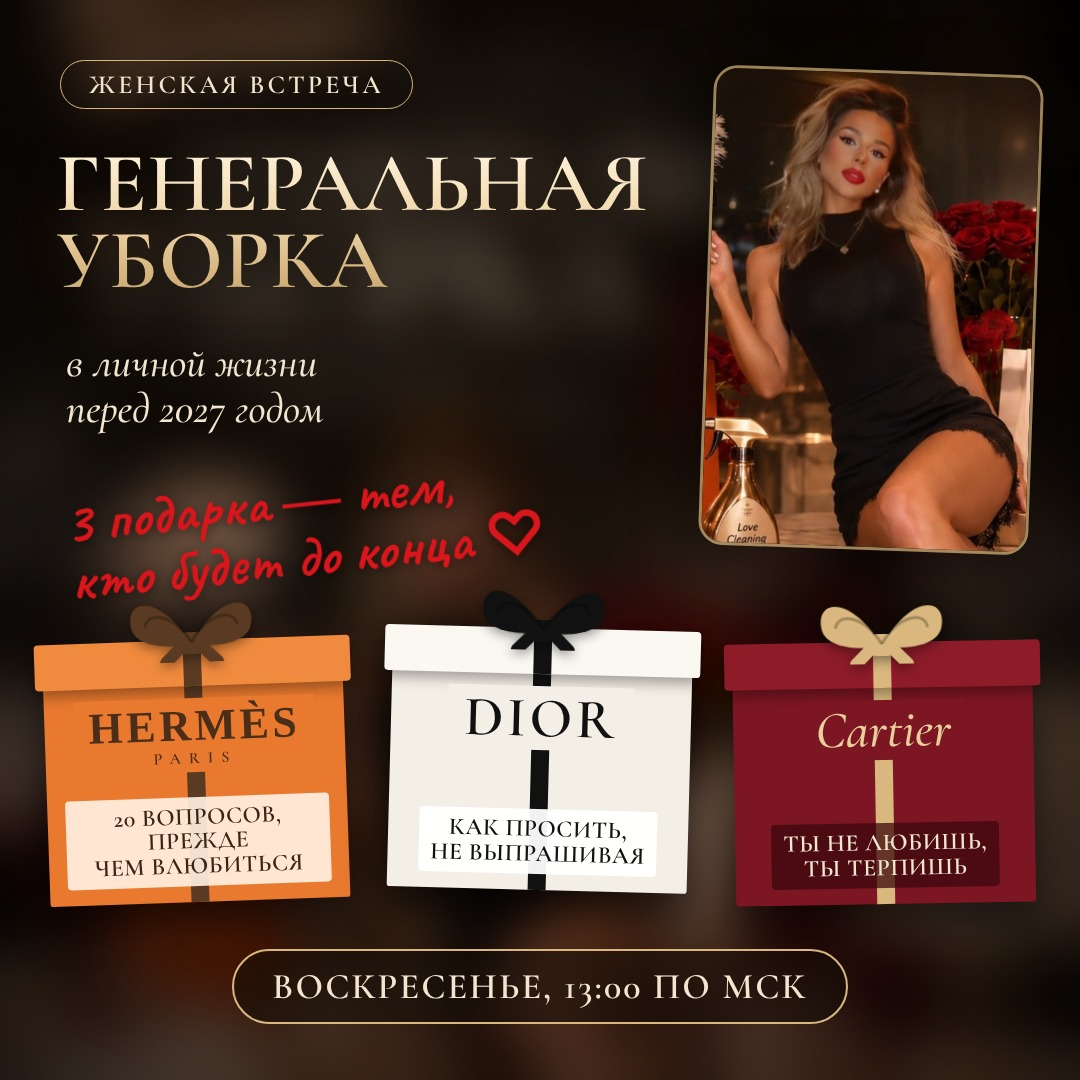
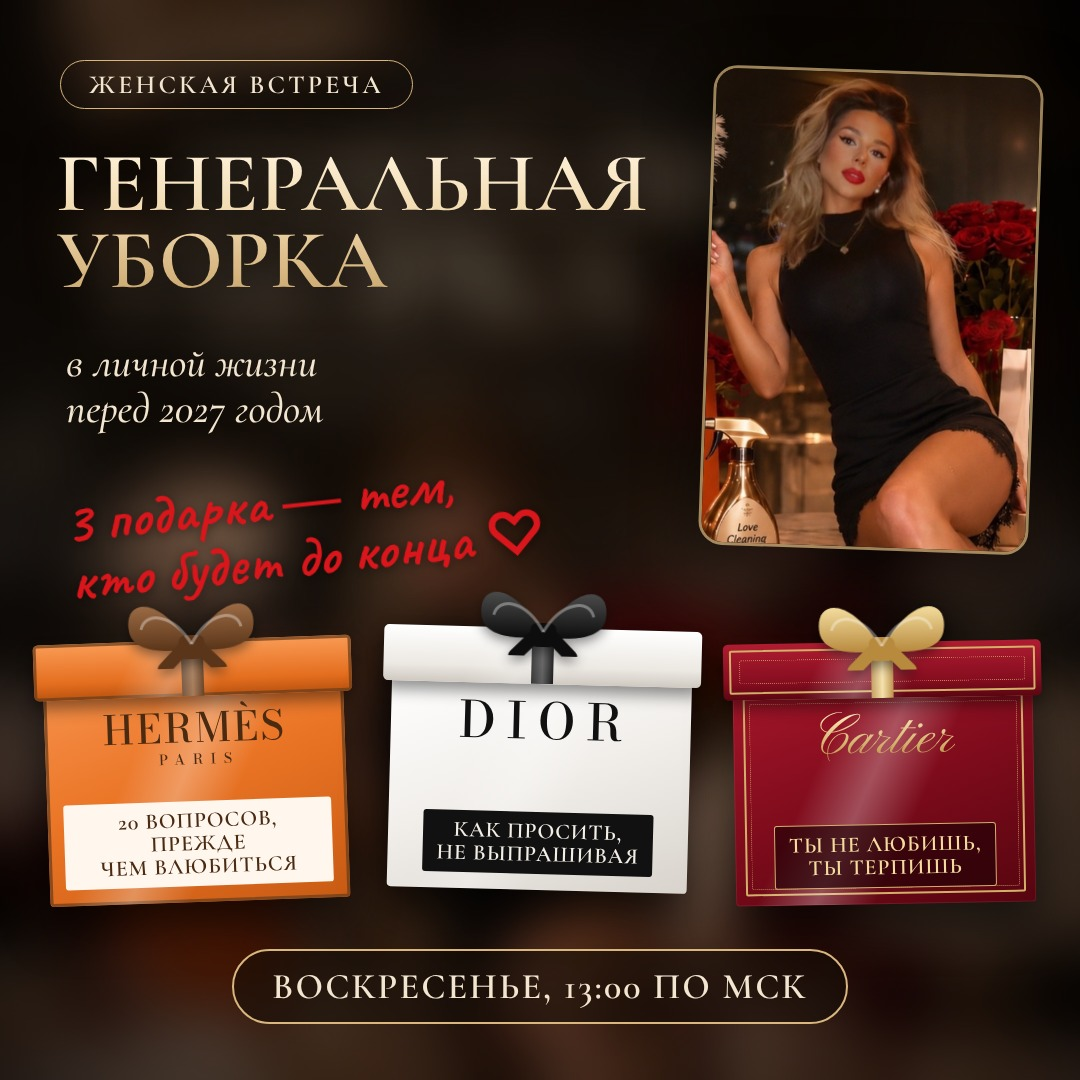
Обложка-приглашение: глянцевые коробки с логотипами
Claude-Session: https://claude.ai/code/session_01QvxPhZFmoV4wpS6odsdhe8

Changed region(s): [[0.0306, 0.55, 0.9778, 0.8556], [0.9167, 0.6417, 0.9472, 0.6722]]

diff --git a/guides/src/bot_covers_2.js b/guides/src/bot_covers_2.js
@@ -10,6 +10,9 @@ const css = `
 @font-face{font-family:Cav;font-weight:700;src:url(file://${F}/caveat/files/caveat-latin-700-normal.woff2);unicode-range:U+0000-00FF}
 @font-face{font-family:Mont;font-weight:500;src:url(file://${F}/montserrat/files/montserrat-cyrillic-500-normal.woff2)}
 @font-face{font-family:Mont;font-weight:500;src:url(file://${F}/montserrat/files/montserrat-latin-500-normal.woff2);unicode-range:U+0000-00FF}
+@font-face{font-family:Bod;font-weight:500;src:url(file://${F}/bodoni-moda/files/bodoni-moda-latin-500-normal.woff2)}
+@font-face{font-family:Bod;font-weight:700;src:url(file://${F}/bodoni-moda/files/bodoni-moda-latin-700-normal.woff2)}
+@font-face{font-family:Pin;src:url(file://${F}/pinyon-script/files/pinyon-script-latin-400-normal.woff2)}
 *{margin:0;padding:0;box-sizing:border-box}
 body{width:1080px;height:1080px;overflow:hidden;position:relative;background:#120c08;color:#f3e6d0}
 .bg{position:absolute;inset:0;background:url(file://${D}/bg.jpg) center/cover;filter:brightness(.55)}
@@ -37,6 +40,15 @@ body{width:1080px;height:1080px;overflow:hidden;position:relative;background:#12
 .box .bow i:first-child{left:0;transform:rotate(-14deg)}.box .bow i:last-child{right:0;transform:rotate(14deg)}
 .box .bow b{position:absolute;left:50%;top:12px;width:20px;height:20px;margin-left:-10px;border-radius:5px}
 .box .t{position:relative;z-index:2;font-family:Corm;font-weight:600;font-size:31px;line-height:1.02;text-transform:uppercase;letter-spacing:.02em;padding:8px 12px;border-radius:4px}
+
+.gb{position:absolute;width:300px;height:262px}
+.gb .bd{position:absolute;left:0;right:0;top:44px;bottom:0;border-radius:4px;overflow:hidden;box-shadow:0 22px 44px rgba(0,0,0,.6),inset 0 0 0 1px rgba(255,255,255,.08)}
+.gb .ld{position:absolute;left:-9px;right:-9px;top:0;height:56px;border-radius:5px;overflow:hidden;box-shadow:0 8px 16px rgba(0,0,0,.45)}
+.gb .sh{position:absolute;inset:0;background:linear-gradient(115deg,rgba(255,255,255,0) 30%,rgba(255,255,255,.28) 45%,rgba(255,255,255,0) 60%)}
+.gb .rb{position:absolute;left:50%;top:0;bottom:0;width:22px;margin-left:-11px}
+.gb .cnt{position:absolute;inset:0;display:flex;flex-direction:column;align-items:center;justify-content:space-between;padding:22px 16px 16px;z-index:3}
+.gb .wm{padding:2px 12px;line-height:1;text-align:center}
+.gb .tg{font-family:Corm;font-weight:600;font-size:22px;line-height:1.05;text-transform:uppercase;letter-spacing:.04em;padding:8px 14px;border-radius:3px;text-align:center}
 .pill2{display:inline-block;border-radius:60px;padding:16px 44px;font-family:Corm;font-weight:700;font-size:42px;letter-spacing:.05em;text-transform:uppercase;color:#1a0f08;background:linear-gradient(180deg,#fff0d4,#d9b77e);box-shadow:0 10px 30px rgba(0,0,0,.5)}
 
 `;
@@ -48,7 +60,7 @@ const covers = {
  <div class="abs it" style="left:66px;top:340px;font-size:42px;line-height:1.1">в личной жизни<br>перед 2027 годом</div>
  <div class="photo" style="right:44px;top:70px;width:330px;height:480px;transform:rotate(2deg)"><img src="file://${D}/her.jpg"></div>
  <div class="abs red" style="left:66px;top:470px;font-size:58px">3 подарка — тем,<br>кто будет до конца ♡</div>
- <div class="box" style="left:46px;top:640px;transform:rotate(-2deg)"><div class="body" style="background:#e8792f"><div class="rv" style="background:#5a3a22"></div><div class="brand" style="color:#4a2e1a;padding:6px 14px;background:#e8792f"><div style="font-family:Corm;font-weight:700;font-size:44px;letter-spacing:.08em">HERMÈS</div><div style="font-family:Corm;font-weight:600;font-size:16px;letter-spacing:.5em;margin-top:2px">PARIS</div></div><div class="t" style="color:#3b2414;background:rgba(255,240,225,.92)">20 вопросов, прежде<br>чем влюбиться</div></div><div class="lid" style="background:#ef8a3e"><div class="rv" style="background:#5a3a22"></div></div><svg style="position:absolute;left:50%;top:-58px;margin-left:-70px;filter:drop-shadow(0 4px 6px rgba(0,0,0,.4))" width="140" height="80" viewBox="0 0 140 80"><path d="M70 62 C40 10,4 14,10 44 C14 64,48 66,70 62Z" fill="#5a3a22"/><path d="M70 62 C100 10,136 14,130 44 C126 64,92 66,70 62Z" fill="#5a3a22"/><path d="M62 62 L44 80 M78 62 L96 80" stroke="#5a3a22" stroke-width="12" stroke-linecap="round"/><rect x="58" y="50" width="24" height="22" rx="6" fill="#5a3a22"/><path d="M70 60 C52 30,26 28,24 44" stroke="rgba(0,0,0,.25)" stroke-width="3" fill="none"/><path d="M70 60 C88 30,114 28,116 44" stroke="rgba(0,0,0,.25)" stroke-width="3" fill="none"/></svg></div><div class="box" style="left:390px;top:628px;transform:rotate(1.5deg)"><div class="body" style="background:#f4efe6"><div class="rv" style="background:#111"></div><div class="brand" style="color:#111;padding:4px 16px;background:#f4efe6"><div style="font-family:Corm;font-weight:600;font-size:56px;letter-spacing:.06em">DIOR</div></div><div class="t" style="color:#111;background:rgba(255,255,255,.95)">Как просить,<br>не выпрашивая</div></div><div class="lid" style="background:#fbf8f2"><div class="rv" style="background:#111"></div></div><svg style="position:absolute;left:50%;top:-58px;margin-left:-70px;filter:drop-shadow(0 4px 6px rgba(0,0,0,.4))" width="140" height="80" viewBox="0 0 140 80"><path d="M70 62 C40 10,4 14,10 44 C14 64,48 66,70 62Z" fill="#111"/><path d="M70 62 C100 10,136 14,130 44 C126 64,92 66,70 62Z" fill="#111"/><path d="M62 62 L44 80 M78 62 L96 80" stroke="#111" stroke-width="12" stroke-linecap="round"/><rect x="58" y="50" width="24" height="22" rx="6" fill="#111"/><path d="M70 60 C52 30,26 28,24 44" stroke="rgba(0,0,0,.25)" stroke-width="3" fill="none"/><path d="M70 60 C88 30,114 28,116 44" stroke="rgba(0,0,0,.25)" stroke-width="3" fill="none"/></svg></div><div class="box" style="left:734px;top:642px;transform:rotate(-1deg)"><div class="body" style="background:#7c1622"><div class="rv" style="background:#d9b77e"></div><div class="brand" style="color:#e9cf9b;padding:4px 14px;background:#7c1622"><div style="font-family:CormI;font-style:italic;font-weight:500;font-size:52px">Cartier</div></div><div class="t" style="color:#f3e6d0;background:rgba(60,8,14,.75)">Ты не любишь,<br>ты терпишь</div></div><div class="lid" style="background:#8d1b28"><div class="rv" style="background:#d9b77e"></div></div><svg style="position:absolute;left:50%;top:-58px;margin-left:-70px;filter:drop-shadow(0 4px 6px rgba(0,0,0,.4))" width="140" height="80" viewBox="0 0 140 80"><path d="M70 62 C40 10,4 14,10 44 C14 64,48 66,70 62Z" fill="#d9b77e"/><path d="M70 62 C100 10,136 14,130 44 C126 64,92 66,70 62Z" fill="#d9b77e"/><path d="M62 62 L44 80 M78 62 L96 80" stroke="#d9b77e" stroke-width="12" stroke-linecap="round"/><rect x="58" y="50" width="24" height="22" rx="6" fill="#d9b77e"/><path d="M70 60 C52 30,26 28,24 44" stroke="rgba(0,0,0,.25)" stroke-width="3" fill="none"/><path d="M70 60 C88 30,114 28,116 44" stroke="rgba(0,0,0,.25)" stroke-width="3" fill="none"/></svg></div>
+ <div class="gb" style="left:46px;top:640px;transform:rotate(-2deg)"><div class="bd" style="background:linear-gradient(160deg,#f6904a 0%,#ea7425 45%,#c95b14 100%)"><div style="position:absolute;inset:0;border:3px solid #6b3f1d;border-radius:4px;opacity:.75"></div><div class="sh"></div><div class="cnt"><div class="wm" style="color:#4b2a12"><div style="font-family:Bod;font-weight:500;font-size:40px;letter-spacing:.06em">HERMÈS</div><div style="font-family:Bod;font-weight:500;font-size:14px;letter-spacing:.55em;margin-top:4px;padding-left:.55em">PARIS</div></div><div class="tg" style="background:#fff7ee;color:#4b2a12">20 вопросов, прежде<br>чем влюбиться</div></div></div><div class="ld" style="background:linear-gradient(180deg,#fa9b55,#e46e1f 70%,#b9520f)"><div style="position:absolute;inset:0;border:3px solid #6b3f1d;border-radius:4px;opacity:.75"></div><div class="rb" style="background:linear-gradient(90deg,#5b3519,#9a6a44 50%,#5b3519)"></div><div class="sh"></div></div><svg style="position:absolute;left:50%;top:-56px;margin-left:-72px;z-index:4;filter:drop-shadow(0 5px 6px rgba(0,0,0,.45))" width="144" height="84" viewBox="0 0 144 84"><defs><linearGradient id="g5b3519" x1="0" y1="0" x2="0" y2="1"><stop offset="0" stop-color="#9a6a44"/><stop offset="1" stop-color="#5b3519"/></linearGradient></defs><path d="M72 64 C42 8,4 12,10 46 C14 68,50 68,72 64Z" fill="url(#g5b3519)"/><path d="M72 64 C102 8,140 12,134 46 C130 68,94 68,72 64Z" fill="url(#g5b3519)"/><path d="M64 64 L44 84 M80 64 L100 84" stroke="#5b3519" stroke-width="13" stroke-linecap="round"/><rect x="59" y="51" width="26" height="24" rx="7" fill="#5b3519"/><path d="M72 60 C54 28,26 26,22 44" stroke="rgba(255,255,255,.35)" stroke-width="3" fill="none"/><path d="M72 60 C90 28,118 26,122 44" stroke="rgba(255,255,255,.35)" stroke-width="3" fill="none"/></svg></div><div class="gb" style="left:390px;top:628px;transform:rotate(1.5deg)"><div class="bd" style="background:linear-gradient(160deg,#ffffff 0%,#f1eeea 50%,#d8d3cc 100%)"><div class="sh"></div><div class="cnt"><div class="wm" style="color:#111"><div style="font-family:Bod;font-weight:500;font-size:50px;letter-spacing:.22em;padding-left:.22em">DIOR</div></div><div class="tg" style="background:#111;color:#f4efe6">Как просить,<br>не выпрашивая</div></div></div><div class="ld" style="background:linear-gradient(180deg,#ffffff,#ece8e2 70%,#cfc9c1)"><div class="rb" style="background:linear-gradient(90deg,#0d0d0d,#4a4a4a 50%,#0d0d0d)"></div><div class="sh"></div></div><svg style="position:absolute;left:50%;top:-56px;margin-left:-72px;z-index:4;filter:drop-shadow(0 5px 6px rgba(0,0,0,.45))" width="144" height="84" viewBox="0 0 144 84"><defs><linearGradient id="g0d0d0d" x1="0" y1="0" x2="0" y2="1"><stop offset="0" stop-color="#4a4a4a"/><stop offset="1" stop-color="#0d0d0d"/></linearGradient></defs><path d="M72 64 C42 8,4 12,10 46 C14 68,50 68,72 64Z" fill="url(#g0d0d0d)"/><path d="M72 64 C102 8,140 12,134 46 C130 68,94 68,72 64Z" fill="url(#g0d0d0d)"/><path d="M64 64 L44 84 M80 64 L100 84" stroke="#0d0d0d" stroke-width="13" stroke-linecap="round"/><rect x="59" y="51" width="26" height="24" rx="7" fill="#0d0d0d"/><path d="M72 60 C54 28,26 26,22 44" stroke="rgba(255,255,255,.35)" stroke-width="3" fill="none"/><path d="M72 60 C90 28,118 26,122 44" stroke="rgba(255,255,255,.35)" stroke-width="3" fill="none"/></svg></div><div class="gb" style="left:734px;top:642px;transform:rotate(-1deg)"><div class="bd" style="background:linear-gradient(160deg,#a4162a 0%,#7d0b1b 50%,#560510 100%)"><div style="position:absolute;inset:10px;border:2px solid #d4af6a;border-radius:2px"></div><div style="position:absolute;inset:16px;border:1px dotted #d4af6a;border-radius:2px;opacity:.8"></div><div class="sh"></div><div class="cnt"><div class="wm"><div style="font-family:Pin;font-size:58px;background:linear-gradient(180deg,#fff0c2,#d4af6a 60%,#a67c32);-webkit-background-clip:text;color:transparent">Cartier</div></div><div class="tg" style="background:rgba(30,2,6,.65);color:#f3dc9e;border:1px solid #d4af6a">Ты не любишь,<br>ты терпишь</div></div></div><div class="ld" style="background:linear-gradient(180deg,#b01c31,#850d1f 70%,#5a0612)"><div style="position:absolute;inset:6px;border:2px solid #d4af6a;border-radius:2px"></div><div style="position:absolute;inset:16px;border:1px dotted #d4af6a;border-radius:2px;opacity:.8"></div><div class="rb" style="background:linear-gradient(90deg,#b88a3e,#f3dc9e 50%,#b88a3e)"></div><div class="sh"></div></div><svg style="position:absolute;left:50%;top:-56px;margin-left:-72px;z-index:4;filter:drop-shadow(0 5px 6px rgba(0,0,0,.45))" width="144" height="84" viewBox="0 0 144 84"><defs><linearGradient id="gb88a3e" x1="0" y1="0" x2="0" y2="1"><stop offset="0" stop-color="#f3dc9e"/><stop offset="1" stop-color="#b88a3e"/></linearGradient></defs><path d="M72 64 C42 8,4 12,10 46 C14 68,50 68,72 64Z" fill="url(#gb88a3e)"/><path d="M72 64 C102 8,140 12,134 46 C130 68,94 68,72 64Z" fill="url(#gb88a3e)"/><path d="M64 64 L44 84 M80 64 L100 84" stroke="#b88a3e" stroke-width="13" stroke-linecap="round"/><rect x="59" y="51" width="26" height="24" rx="7" fill="#b88a3e"/><path d="M72 60 C54 28,26 26,22 44" stroke="rgba(255,255,255,.35)" stroke-width="3" fill="none"/><path d="M72 60 C90 28,118 26,122 44" stroke="rgba(255,255,255,.35)" stroke-width="3" fill="none"/></svg></div>
  <div class="abs" style="left:0;right:0;bottom:56px;text-align:center"><span class=pill>Воскресенье, 13:00 по МСК</span></div>`),
 '02_красный_флаг': P(`
  <div class="photo" style="right:70px;top:90px;width:360px;height:360px;border-color:rgba(216,22,28,.6)"><img src="file://${D}/man.jpg" style="filter:brightness(.9)"></div>
